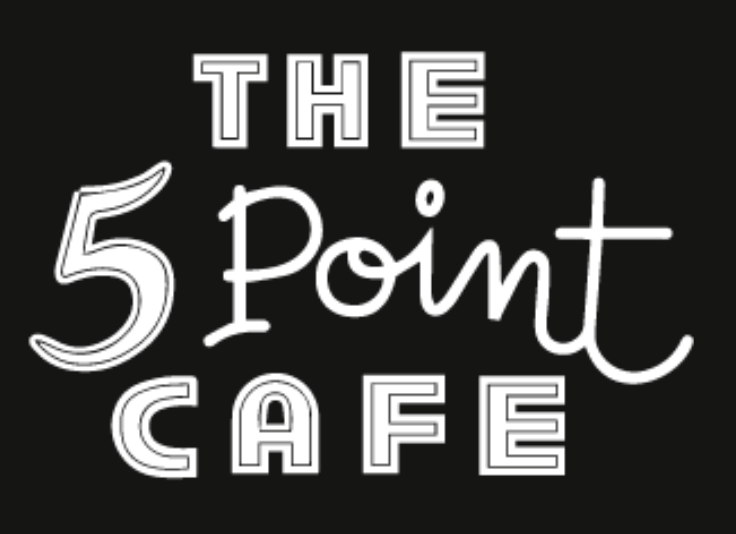
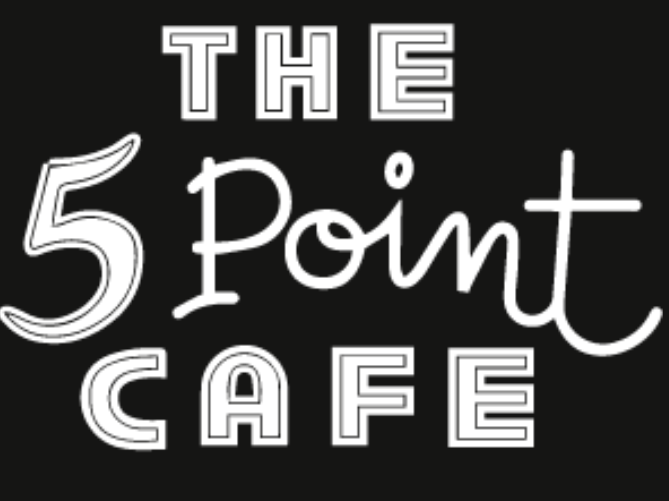
newly cropped images and CSS for dine-in page

Changed region(s): [[0.0, 0.0299, 1.0, 0.8982], [0.299, 0.6886, 0.4484, 0.8982]]

diff --git a/main.html b/main.html
@@ -10,30 +10,32 @@
     <title>BiteVenture</title>
 </head>
 <h1>
-        <img id="title-logo" src="./images/pic-logo.JPG" />
+    <img id="title-logo" src="./images/pic-logo.JPG" />
 </h1>
+
 <body>
-    <div id = "buttons">
-   
-    <div id = "FastFood">
-            <img id="fastfood" src="./images/button_fast-food (1).png" onclick="window.location.href='fast_food.html'"/>
+    <div id="buttons">
+
+        <div id="FastFood">
+            <img id="fastfood" src="./images/button_fast-food (1).png"
+                onclick="window.location.href='fast_food.html'" />
         </div>
-    <div id = "TakeOut">
-        <img id="takeout" src="./images/button_take-out.png" onclick="window.location.href='take_out.html'"/>
+        <div id="TakeOut">
+            <img id="takeout" src="./images/button_take-out.png" onclick="window.location.href='take_out.html'" />
         </div>
-    <div id = "DineIn">           
-        <img id="dinein" src="./images/button_dine-in.png" onclick="window.location.href='dine_in.html'"/>
+        <div id="DineIn">
+            <img id="dinein" src="./images/button_dine-in.png" onclick="window.location.href='dine_in.html'" />
         </div>
-    <div id = "Coffee">           
-        <img id="coffee" src="./images/button_coffee-tea.png" onclick="window.location.href='coffee.html'"/>
+        <div id="Coffee">
+            <img id="coffee" src="./images/button_coffee-tea.png" onclick="window.location.href='coffee.html'" />
         </div>
     </div>
 </body>
 
 <footer>
-    <div id ="DevPage">
-    <img id="devs" src="./images/button_about-the-devs.png" onclick="window.location.href='aboutUs.html'"/>
-    </div> 
+    <div id="DevPage">
+        <img id="devs" src="./images/button_about-the-devs.png" onclick="window.location.href='aboutUs.html'" />
+    </div>
 </footer>
 
 </html>

diff --git a/style-dine-in.css b/style-dine-in.css
@@ -42,12 +42,13 @@
   text-align: center;
 }
 #restaurant-5Point {
-  height: 100px;
-  margin-top: 50px;
-  margin-right: 50px;
+  height: 275px;
+  margin-top: 30px;
+  margin-right: 70px;
+  margin-left: 220px;
 }
 #restaurant-CJ {
-  height: 100px;
-  margin-top: 50px;
+  height: 280px;
+  margin-top: 35px;
   margin-left: 50px;
 }
